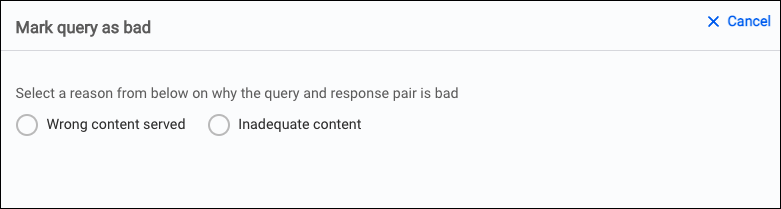
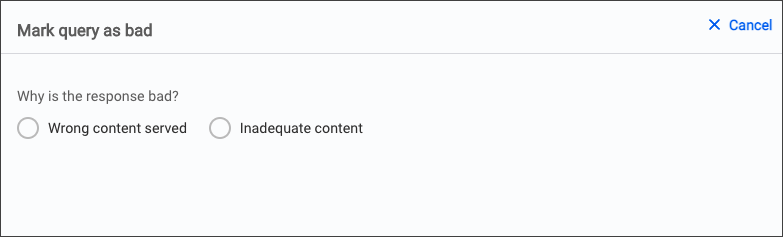
Update Consumer Queries doc

diff --git a/pages/Documents/ConversationalAI/KnowledgeAI/OptimizingYourContent/evaluating-consumer-queries.md b/pages/Documents/ConversationalAI/KnowledgeAI/OptimizingYourContent/evaluating-consumer-queries.md
@@ -133,7 +133,7 @@ Even answered queries can provide opportunities for tuning.
     <img style="width:700px" src="img/ConvoBuilder/kai_csq14.png">
 
     The reason you marked the query as bad determines what happens next:
-    * **Wrong content matched**: This takes you through a guided flow, right within the view. You’re prompted to find the right article for the query, and to add the query as a training phrase to the article’s intent. If the article doesn’t have an associated intent, you’re prompted to associate an existing one or to create one. 
+    * **Wrong content served**: This takes you through a guided flow, right within the view. You’re prompted to find the right article for the query, and to add the query as a training phrase to the article’s intent. If the article doesn’t have an associated intent, you’re prompted to associate an existing one or to create one. 
     * **Inadequate content**: This too takes you through a guided flow, right within the view. You can update the article, and optionally associate an intent.
 5. Repeat this process for other unanswered queries.
 
